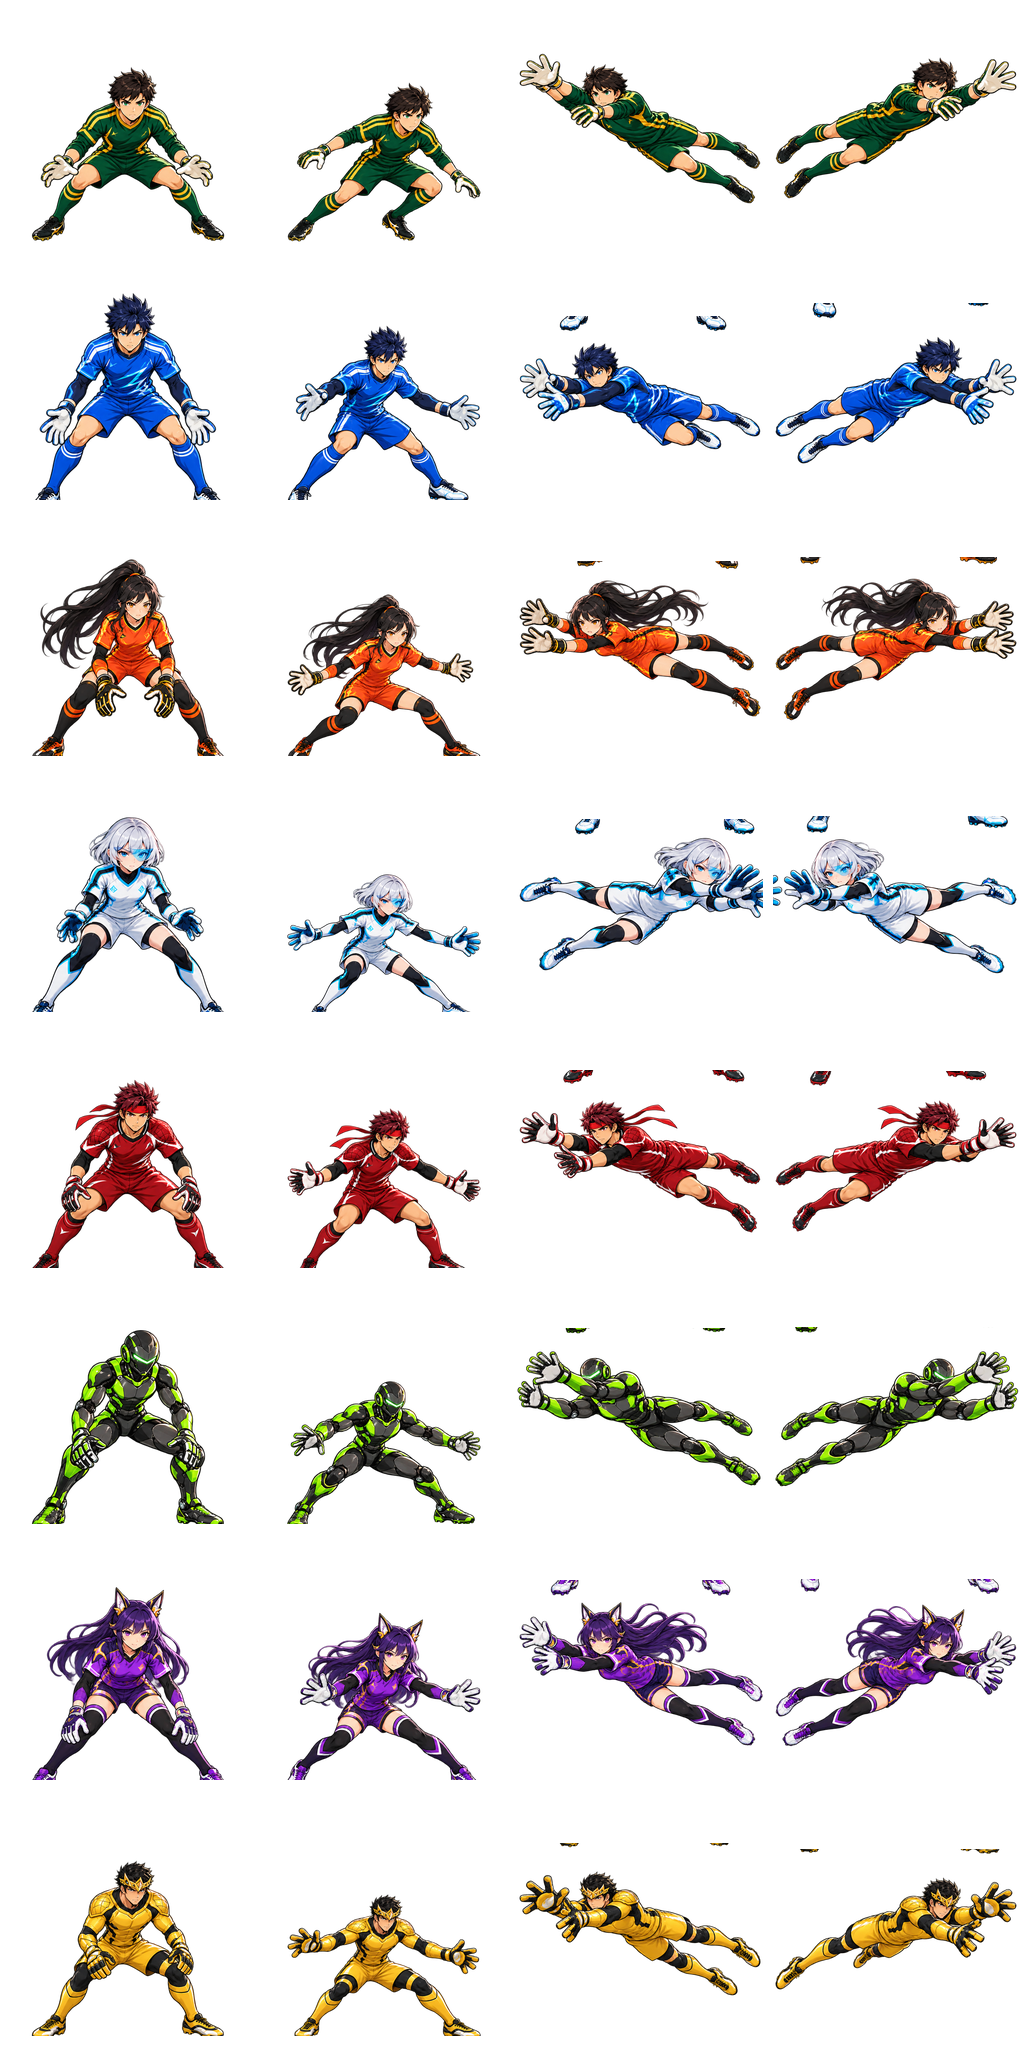
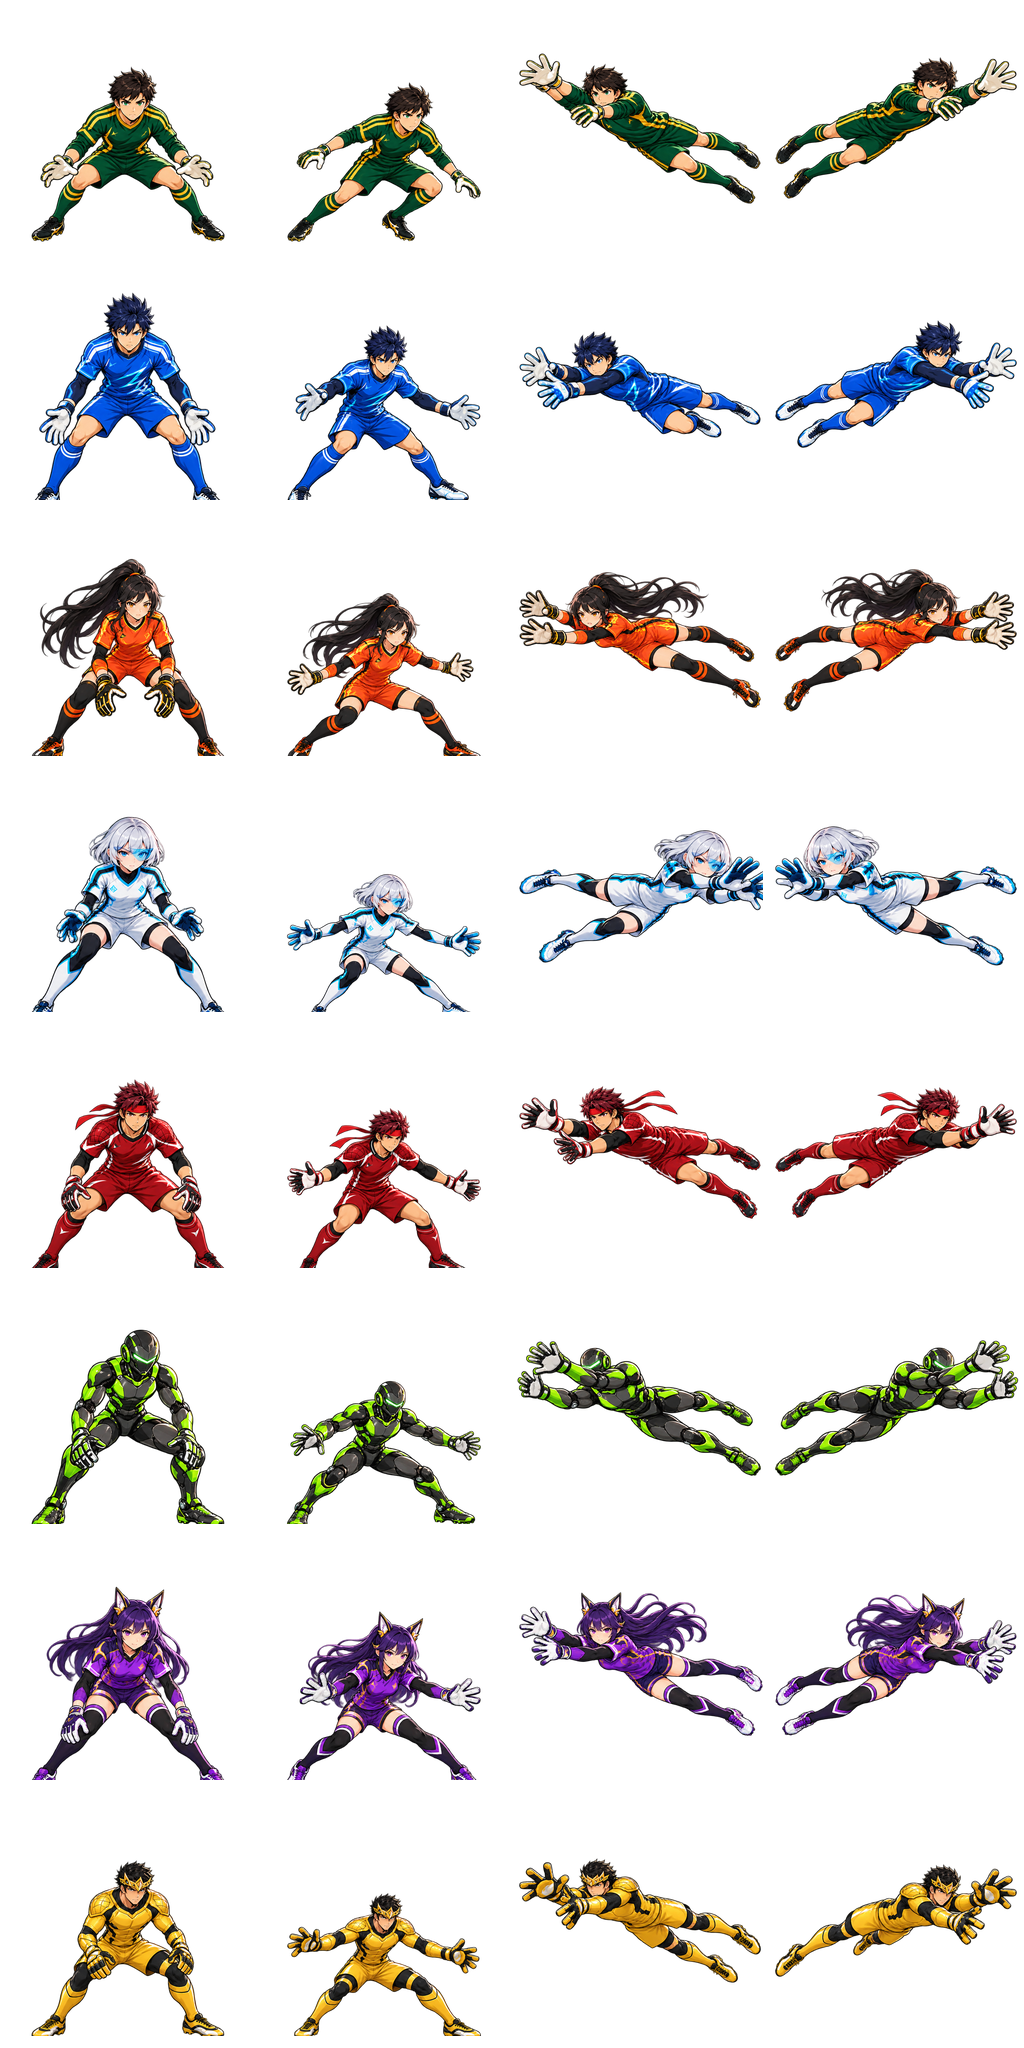
Additional changes added

diff --git a/server/vercel-matches.js b/server/vercel-matches.js
@@ -89,6 +89,7 @@ async function ensureSchema(sql) {
         expires_at BIGINT
       )`;
       await sql`ALTER TABLE users ADD COLUMN IF NOT EXISTS keeper_id TEXT NOT NULL DEFAULT 'rookie'`;
+      await sql`ALTER TABLE users ADD COLUMN IF NOT EXISTS win_streak INTEGER NOT NULL DEFAULT 0`;
       await sql`CREATE INDEX IF NOT EXISTS online_matches_players_state ON online_matches(player_one, player_two, state)`;
       await sql`CREATE TABLE IF NOT EXISTS online_queue (
         user_id INTEGER PRIMARY KEY REFERENCES users(id) ON DELETE CASCADE,
@@ -120,7 +121,7 @@ async function ensureSchema(sql) {
                  OR (better.rating = u.rating AND better.wins > u.wins)
                  OR (better.rating = u.rating AND better.wins = u.wins AND better.nickname_key < u.nickname_key)
             ),
-            'wins', u.wins, 'losses', u.losses, 'matches', u.matches
+            'wins', u.wins, 'losses', u.losses, 'matches', u.matches, 'winStreak', u.win_streak
           ) FROM users u WHERE u.id = p_user_id
         $function$`;
 
@@ -144,7 +145,9 @@ async function ensureSchema(sql) {
               'type', 'match-start', 'matchId', p_match_id, 'mode', m.mode, 'playerIndex', i,
               'you', arena_public_user(me_id), 'opponent', arena_public_user(other_id),
               'scores', to_jsonb(m.scores), 'shots', to_jsonb(m.shots),
-              'regulationShots', 3, 'ratingPoints', CASE WHEN m.mode = 'ranked' THEN 24 ELSE 0 END
+              'regulationShots', 3, 'ratingPoints', CASE WHEN m.mode = 'ranked'
+                THEN 24 + LEAST(COALESCE((SELECT win_streak FROM users WHERE id = me_id), 0) * 2, 12)
+                ELSE 0 END
             ), (extract(epoch FROM clock_timestamp()) * 1000)::BIGINT);
             INSERT INTO online_match_events(match_id, recipient_user_id, event_type, payload, created_at)
             VALUES (p_match_id, me_id, 'turn', jsonb_build_object(
@@ -216,6 +219,7 @@ async function ensureSchema(sql) {
         LANGUAGE plpgsql AS $function$
         DECLARE m online_matches%ROWTYPE; ids INTEGER[]; before_ratings INTEGER[] := ARRAY[0,0]; after_ratings INTEGER[] := ARRAY[0,0];
           deltas INTEGER[] := ARRAY[0,0]; i INTEGER; user_row users%ROWTYPE; result_name TEXT; user_id INTEGER; other_id INTEGER;
+          new_streak INTEGER; point_gain INTEGER;
         BEGIN
           SELECT * INTO m FROM online_matches WHERE id = p_match_id FOR UPDATE;
           IF NOT FOUND OR m.state <> 'active' THEN RETURN; END IF;
@@ -224,19 +228,23 @@ async function ensureSchema(sql) {
             updated_at = (extract(epoch FROM clock_timestamp()) * 1000)::BIGINT WHERE id = p_match_id;
           FOR i IN 1..2 LOOP
             user_id := ids[i];
-            SELECT * INTO user_row FROM users WHERE id = user_id;
+            SELECT * INTO user_row FROM users WHERE id = user_id FOR UPDATE;
             before_ratings[i] := user_row.rating;
             IF m.mode = 'ranked' AND p_winner_index IS NOT NULL THEN
-              after_ratings[i] := GREATEST(0, user_row.rating + CASE WHEN p_winner_index = i - 1 THEN 24 ELSE -24 END);
+              new_streak := CASE WHEN p_winner_index = i - 1 THEN user_row.win_streak + 1 ELSE 0 END;
+              point_gain := CASE WHEN p_winner_index = i - 1 THEN 24 + LEAST((new_streak - 1) * 2, 12) ELSE -24 END;
+              after_ratings[i] := GREATEST(0, user_row.rating + point_gain);
               deltas[i] := after_ratings[i] - before_ratings[i];
               UPDATE users SET rating = after_ratings[i],
                 wins = wins + CASE WHEN p_winner_index = i - 1 THEN 1 ELSE 0 END,
                 losses = losses + CASE WHEN p_winner_index = i - 1 THEN 0 ELSE 1 END,
-                matches = matches + 1, updated_at = (extract(epoch FROM clock_timestamp()) * 1000)::BIGINT
+                matches = matches + 1, win_streak = new_streak,
+                updated_at = (extract(epoch FROM clock_timestamp()) * 1000)::BIGINT
                 WHERE id = user_id;
             ELSE
               after_ratings[i] := before_ratings[i];
-              UPDATE users SET matches = matches + 1, updated_at = (extract(epoch FROM clock_timestamp()) * 1000)::BIGINT
+              UPDATE users SET matches = matches + 1,
+                updated_at = (extract(epoch FROM clock_timestamp()) * 1000)::BIGINT
                 WHERE id = user_id;
             END IF;
           END LOOP;

diff --git a/js/keepers.js b/js/keepers.js
@@ -25,7 +25,7 @@
       paintPortrait(canvas, canvas.dataset.keeperId, canvas.parentElement.classList.contains('is-equipped')));
   }
 
-  function draw(ctx, keeper, x = 0, y = 0, scale = 1, time = 0, diving = false, diveRotation = 0, diveProgress = 0, anticipating = false, diveDirection = 0, keeperState = 'idle', landingTimer = 0) {
+  function draw(ctx, keeper, x = 0, y = 0, scale = 1, time = 0, diving = false, diveRotation = 0, diveProgress = 0, anticipating = false, diveDirection = 0, keeperState = 'idle', landingTimer = 0, ballContact = null) {
     if (!cardArt?.complete || !cardArt.naturalWidth) return;
     const p = byId(keeper);
     const frameSize = 256;
@@ -36,7 +36,18 @@
     const idlePhase = time * [1.2, 2.7, 1.1, .8, 1.9, 1.35, 1.05, .9][p.artIndex];
     const breath = Math.sin(idlePhase);
     const diveFrame = direction < 0 ? 2 : direction > 0 ? 3 : 1;
-    const footX = x + (diving ? -direction * motion * 3 : Math.sin(idlePhase * .55) * 1.2);
+    // Dive poses reach about 113px sideways and 72px upward from the sprite
+    // center in source-image pixels. Shift the body along that reach vector so the leading glove meets
+    // the shot's actual destination instead of stopping beside the ball.
+    let contactOffsetX = 0, contactOffsetY = 0;
+    if (diving && ballContact && direction) {
+      const gloveX = x + direction * 113 * spriteScale;
+      const gloveY = y - 28 - 72 * spriteScale;
+      const correction = Math.min(1, motion * 1.35);
+      contactOffsetX = (ballContact.x - gloveX) * correction;
+      contactOffsetY = (ballContact.y - gloveY) * correction;
+    }
+    const footX = x + contactOffsetX + (diving ? -direction * motion * 3 : Math.sin(idlePhase * .55) * 1.2);
     const footY = y + 40 + breath * .8 - (diving ? Math.sin(motion * Math.PI) * 5 : 0);
 
     const drawPose = (pose, alpha, offsetX = 0, offsetY = 0, angle = 0) => {
@@ -44,8 +55,8 @@
       const sourceX = pose * frameSize;
       const sourceY = p.artIndex * frameSize;
       const standing = pose < 2;
-      const anchorX = x + offsetX;
-      const anchorY = standing ? footY + offsetY : y - 28 + offsetY;
+      const anchorX = x + contactOffsetX + offsetX;
+      const anchorY = (standing ? footY : y - 28) + contactOffsetY + offsetY;
       const left = anchorX - frameSize * spriteScale / 2;
       const top = standing
         ? anchorY - 244 * spriteScale

diff --git a/server/database.js b/server/database.js
@@ -31,6 +31,7 @@ class ArenaDatabase {
         wins INTEGER NOT NULL DEFAULT 0,
         losses INTEGER NOT NULL DEFAULT 0,
         matches INTEGER NOT NULL DEFAULT 0,
+        win_streak INTEGER NOT NULL DEFAULT 0,
         keeper_id TEXT NOT NULL DEFAULT 'rookie',
         created_at INTEGER NOT NULL,
         updated_at INTEGER NOT NULL
@@ -61,6 +62,9 @@ class ArenaDatabase {
     const userColumns = this.db.prepare('PRAGMA table_info(users)').all();
     if (!userColumns.some(column => column.name === 'keeper_id')) {
       this.db.exec("ALTER TABLE users ADD COLUMN keeper_id TEXT NOT NULL DEFAULT 'rookie'");
+    }
+    if (!userColumns.some(column => column.name === 'win_streak')) {
+      this.db.exec('ALTER TABLE users ADD COLUMN win_streak INTEGER NOT NULL DEFAULT 0');
     }
     this.db.prepare('DELETE FROM sessions WHERE expires_at <= ?').run(Date.now());
   }
@@ -104,7 +108,8 @@ class ArenaDatabase {
       rank,
       wins: row.wins,
       losses: row.losses,
-      matches: row.matches
+      matches: row.matches,
+      winStreak: row.win_streak || 0
     };
   }
 
@@ -228,13 +233,17 @@ class ArenaDatabase {
         ratingResults = ratingResults.map((item, index) => {
           if (index === botIndex) return item;
           const won = index === winnerIndex;
-          const delta = won ? RATING_POINTS : -RATING_POINTS;
+          const user = this.db.prepare('SELECT win_streak FROM users WHERE id = ?').get(item.id);
+          const streak = won ? (user.win_streak || 0) + 1 : 0;
+          const bonus = won ? Math.min((streak - 1) * 2, 12) : 0;
+          const delta = won ? RATING_POINTS + bonus : -RATING_POINTS;
           const after = Math.max(0, item.before + delta);
           this.db.prepare(`
             UPDATE users
-            SET rating = ?, wins = wins + ?, losses = losses + ?, matches = matches + 1, updated_at = ?
+            SET rating = ?, wins = wins + ?, losses = losses + ?, matches = matches + 1,
+                win_streak = ?, updated_at = ?
             WHERE id = ?
-          `).run(after, won ? 1 : 0, won ? 0 : 1, Date.now(), item.id);
+          `).run(after, won ? 1 : 0, won ? 0 : 1, streak, Date.now(), item.id);
           return { ...item, after, delta: after - item.before };
         });
       } else if (rated && winnerIndex === null) {

diff --git a/server/vercel-auth.js b/server/vercel-auth.js
@@ -41,6 +41,7 @@ async function ensureSchema(sql) {
         created_at BIGINT NOT NULL
       )`;
       await sql`ALTER TABLE users ADD COLUMN IF NOT EXISTS keeper_id TEXT NOT NULL DEFAULT 'rookie'`;
+      await sql`ALTER TABLE users ADD COLUMN IF NOT EXISTS win_streak INTEGER NOT NULL DEFAULT 0`;
       await sql`CREATE INDEX IF NOT EXISTS sessions_user_id ON sessions(user_id)`;
       await sql`CREATE INDEX IF NOT EXISTS users_leaderboard ON users(rating DESC, wins DESC, nickname_key ASC)`;
       await sql`CREATE TABLE IF NOT EXISTS auth_attempts (
@@ -91,7 +92,8 @@ function publicUser(row, rank) {
     rank,
     wins: row.wins,
     losses: row.losses,
-    matches: row.matches
+    matches: row.matches,
+    winStreak: row.win_streak || 0
   };
 }
 

diff --git a/js/games/penaltis.js b/js/games/penaltis.js
@@ -1405,7 +1405,10 @@ class PenaltisGame {
     if (this.isOnlineMode && this.onlineGoalkeeperId && window.GOALKEEPER_ROSTER) {
       window.GOALKEEPER_ROSTER.draw(
         ctx, this.onlineGoalkeeperId, k.x, k.y, 1, this.timer || 0,
-        k.diving, k.rotation, k.diveProgress, k.anticipating, k.diveDirection, k.state, k.landingTimer
+        k.diving, k.rotation, k.diveProgress, k.anticipating, k.diveDirection, k.state, k.landingTimer,
+        this.onlineVisualIsGoal === false && this.ball?.selectedZone
+          ? { x: this.ball.targetX, y: this.ball.targetY }
+          : null
       );
       return;
     }
